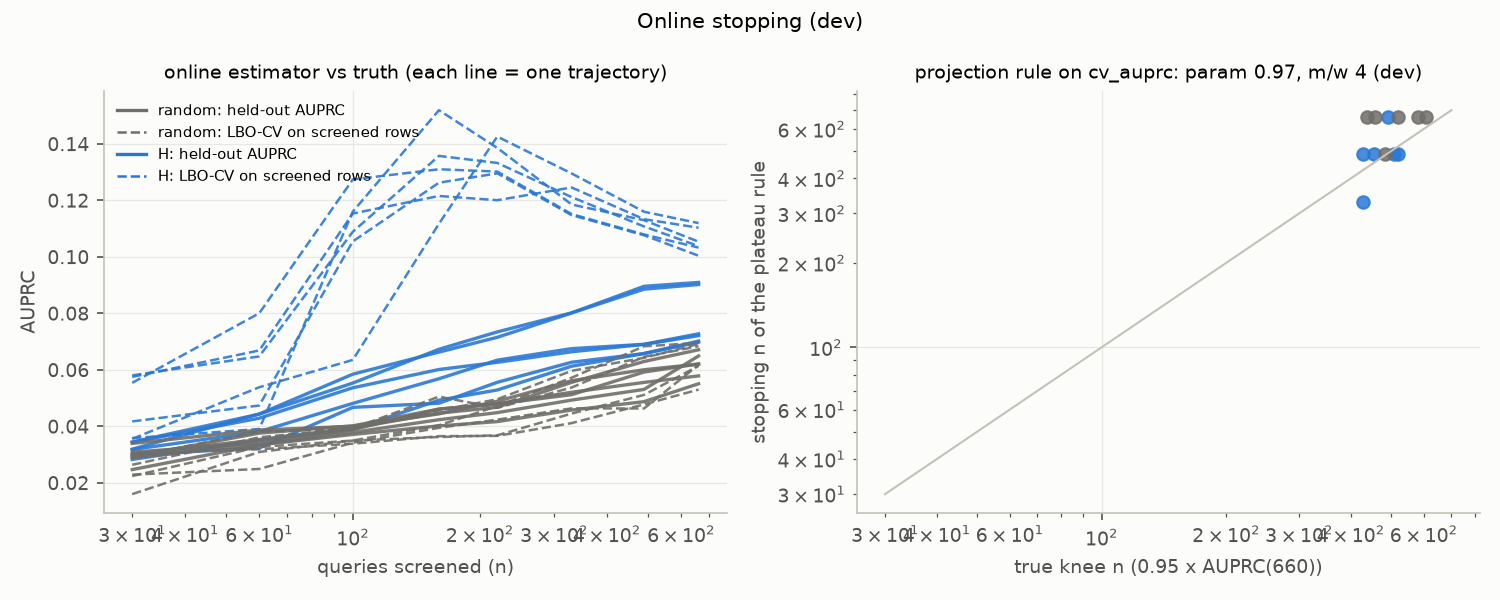
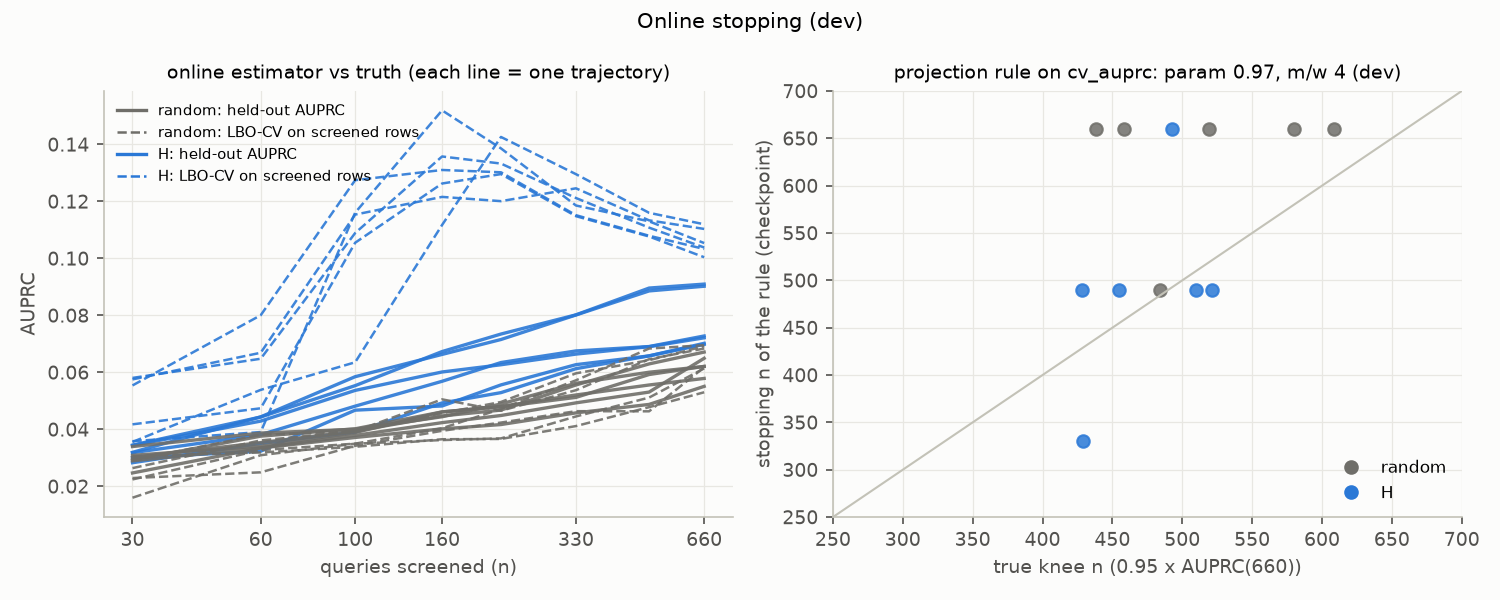
Q3 dev: static rank-rule evaluation (P* refits), full LBO thresholds, key findings; report robust to final-mode columns

diff --git a/analysis/q3/report.py b/analysis/q3/report.py
@@ -34,6 +34,8 @@ def i0(x):
 
 def table(df: pd.DataFrame, cols, heads=None, fmt=None) -> str:
     heads = heads or cols
+    keep = [k for k, c in enumerate(cols) if c in df.columns]          # tolerate columns a source does not have
+    cols, heads = [cols[k] for k in keep], [heads[k] for k in keep]
     fmt = fmt or {}
     out = ["| " + " | ".join(heads) + " |", "|" + "---|" * len(cols)]
     for _, r in df.iterrows():
@@ -165,9 +167,12 @@ def section_choice(O) -> list[str]:
               "rule, P* refit; recovered = (rule − random)/(strategy − random)):", "",
               table(g, ["rule", "n", "auprc_rule", "auprc_random", "auprc_H", "auprc_H_static", "auprc_rel_gain_rule",
                         "auprc_rel_gain_H", "auprc_recovered_vs_H", "auprc_recovered_vs_finalists",
-                        "auprc_recovered_H_static_vs_H", "R_seeds"],
+                        "auprc_recovered_H_static_vs_H", "n_splits", "n_fits", "offarray_share"],
                     ["rule", "n", "rule", "random", "H", "H-static", "rule gain", "H gain", "recovered vs H",
-                     "recovered vs finalists", "H-static recovered", "seeds"], {"n": i0}), ""]
+                     "recovered vs finalists", "H-static recovered", "splits", "fits", "off-array share"],
+                    {"n": i0, "n_splits": i0, "n_fits": i0}), "",
+              "n = 660 is partial: those fits were stopped by the 3 GB RSS watchdog (P* at n = 660 on the full dev "
+              "target set peaks at ≈3.0–3.2 GB), so only the splits listed were completed.", ""]
     L += ["![profile](fig_choice_profile.png)", ""]
     return L
 
@@ -249,7 +254,7 @@ def section_stop(O) -> list[str]:
                f"n = {R_['n_max_planned']}")
         L += [f"**Frozen rule** (`analysis/q3/stopping_rule.yaml`, frozen {r['frozen_at']}): {R_['family']} family; "
               f"{how}; otherwise stop at 660 (flagged).", ""]
-    if (O / "stop_rule_applied.csv").exists():
+    if (O / "stop_rule_applied.csv").exists() and (O / "stop_rule_applied.csv").stat().st_size > 5:
         a = pd.read_csv(O / "stop_rule_applied.csv")
         L += ["Frozen rule applied:", "", table(a, list(a.columns)), ""]
     L += ["![stopping](fig_stopping.png)", ""]
@@ -311,6 +316,60 @@ NOTES = """## Ambiguities in DESIGN §7.2–7.4 and how they were resolved (none
 """
 
 
+def key_findings(O) -> list[str]:
+    """Headline numbers, read from the output files (no hardcoded values)."""
+    L = ["## Key findings", ""]
+    try:
+        t = pd.read_csv(O / "hap1_translation.csv")
+        x = t[(t.stratum == "OA") & t.N_yeast_label.str.contains("primary") & (t.N_HAP1_label == "mid")]
+        m = x[x.b_label == "measured"].set_index("target")
+        b0 = x[x.b_label == "b=0 (count)"].set_index("target")
+        c = pd.read_csv(O / "hap1_costs.csv")
+        c = c[(c.stratum == "OA") & (c.N_HAP1 == 8500) & (c.b_label == "measured")].set_index(["target", "arm"])
+        L.append(f"- **Random screening, HAP1 lines** (N_HAP1 8,500, measured b, on-array stratum): n_80 ≈ "
+                 f"{i0(m.loc['n80', 'n_HAP1'])} [{i0(m.loc['n80', 'lo'])}, {i0(m.loc['n80', 'hi'])}], n_90 ≈ "
+                 f"{i0(m.loc['n90', 'n_HAP1'])} [{i0(m.loc['n90', 'lo'])}, {i0(m.loc['n90', 'hi'])}] lines "
+                 f"(count-scaling bound b = 0: {i0(b0.loc['n80', 'n_HAP1'])} / {i0(b0.loc['n90', 'n_HAP1'])}).")
+        for arm in ("H", "H__b110"):
+            if ("n80", arm) in c.index:
+                L.append(f"- **{arm}** reaches the same AUPRC with {i0(c.loc[('n80', arm), 'lines'])} (n_80) / "
+                         f"{i0(c.loc[('n90', arm), 'lines'])} (n_90) lines in {i0(c.loc[('n80', arm), 'rounds'])} / "
+                         f"{i0(c.loc[('n90', arm), 'rounds'])} rounds (saving "
+                         f"{100 * c.loc[('n80', arm), 'saving_vs_random']:.0f}% / "
+                         f"{100 * c.loc[('n90', arm), 'saving_vs_random']:.0f}%).")
+        bb = pd.read_csv(O / "hap1_billmann222.csv")
+        bb = bb[(bb.stratum == "OA") & (bb.N_HAP1 == 8500) & (bb.b_label == "measured")].set_index("arm")
+        L.append(f"- **Billmann's 222 lines** ≈ {bb.loc['R0', 'n_yeast_equiv']:.0f} yeast queries at measured b: random "
+                 f"selection gives {100 * bb.loc['R0', 'auprc_frac_of_max']:.0f}% of the pool-max AUPRC, H "
+                 f"{100 * bb.loc['H', 'auprc_frac_of_max']:.0f}%.")
+    except (FileNotFoundError, KeyError, IndexError):
+        pass
+    try:
+        g = pd.read_csv(O / "choice_rule_gain.csv").set_index(["rule", "n"])
+        k = g.loc[("forward_k3", 160)]
+        L.append(f"- **Static 3-feature rank rule** (low single-mutant fitness, low expression variability, high "
+                 f"conservation) recovers {100 * k.auprc_recovered_vs_H:.0f}% of H's AUPRC gain at n = 160 "
+                 f"(H-static {100 * k.auprc_recovered_H_static_vs_H:.0f}%).")
+    except (FileNotFoundError, KeyError):
+        pass
+    try:
+        e = pd.read_csv(O / "stop_estimator.csv")
+        r0 = e[(e.arm == "R0")]
+        h = e[(e.arm == "H")]
+        L.append(f"- **Online estimator**: LBO-CV AUPRC on screened rows has relative bias "
+                 f"{100 * r0.rel_bias.min():+.0f}% to {100 * r0.rel_bias.max():+.0f}% under random selection but "
+                 f"{100 * h.rel_bias.min():+.0f}% to {100 * h.rel_bias.max():+.0f}% under H (SL-rich screened rows).")
+        f_ = pd.read_csv(O / "stop_fixed_n_baseline.csv").sort_values("mae_log2").iloc[0]
+        s_ = json.loads((O / "stop_summary.json").read_text())["best"]
+        kn = pd.read_csv(O / "stop_knees.csv").knee / 660
+        L.append(f"- **Stopping**: true knees fall at {kn.min():.2f}–{kn.max():.2f} × the 660 cap; the best online rule "
+                 f"has mean "
+                 f"|log2 error| {s_['mae_log2']:.2f} vs {f_.mae_log2:.2f} for always stopping at n = {f_.n_fixed:.0f}.")
+    except (FileNotFoundError, KeyError, TypeError):
+        pass
+    return L + [""]
+
+
 def compose(source: str, out=None) -> str:
     O = C.out_dir(source, out)
     head = [f"# Q3 analyses — {source.upper()} {'(DEV DATA ONLY)' if source == 'dev' else ''}", "",
@@ -323,7 +382,7 @@ def compose(source: str, out=None) -> str:
             "the dev bundle, one P* job at a time, ~25 min per trajectory); (3) `bash analysis/q3/run_all.sh final` "
             "again, which applies the FROZEN stopping rule (`analysis/q3/stopping_rule.yaml`, never re-tuned) and the "
             "CV thresholds. Outputs go to results/q3_final/.", ""]
-    body = section_hap1(O) + section_frontier(O) + section_choice(O) + section_pred(O) + section_stop(O)
+    body = key_findings(O) + section_hap1(O) + section_frontier(O) + section_choice(O) + section_pred(O) + section_stop(O)
     txt = "\n".join(head + body) + "\n" + NOTES
     (O / "summary.md").write_text(txt)
     return txt

diff --git a/analysis/q3/fit.py b/analysis/q3/fit.py
@@ -25,7 +25,7 @@ def pstar_spec():
     return pz["method"], dict(pz["params"] or {})
 
 
-def fit_score(b, split: str, screened, model_seed: int, n_threads: int = 2) -> dict:
+def fit_score(b, split: str, screened, model_seed: int, n_threads: int = 2, chunk_targets: int | None = None) -> dict:
     from hsl import eval as E, upstream as U, views
     from analysis.q3 import cache
     sp = views.get_split(split)
@@ -43,7 +43,7 @@ def fit_score(b, split: str, screened, model_seed: int, n_threads: int = 2) -> d
     view = U.construct_view(b, S, sp.targets)
     Sm, _ = U.run_method(view, method, model_seed=int(model_seed), split_seed=0, n_threads=n_threads,
                          n_folds=int(min(int(pr["n_folds"]), max(len(S), 2))),
-                         chunk_targets=int(pr["chunk_targets"]), params=params)
+                         chunk_targets=int(chunk_targets or pr["chunk_targets"]), params=params)
     s = np.asarray(Sm, dtype=np.float32)[es["rows"], es["cols"]]
     y = es["y"]
     out = {"split": split, "n": int(len(S)), "model_seed": int(model_seed), "fit_s": time.perf_counter() - t0,
@@ -53,7 +53,7 @@ def fit_score(b, split: str, screened, model_seed: int, n_threads: int = 2) -> d
     return out, s
 
 
-def check() -> None:
+def check(chunk_targets=None) -> None:
     import pandas as pd
     b = C.dev_bundle()
     sels = C.selections("dev", arms=[C.RANDOM])
@@ -61,7 +61,7 @@ def check() -> None:
     for sp, r, n in (("dev1", 0, 160),):
         sel = sels[(C.RANDOM, sp, r)]
         x = d[(d.predictor == C.PSTAR) & (d.split == sp) & (d.perm == r) & (d.n == n)].iloc[0]
-        out, _ = fit_score(b, sp, sel["selected"][:n], sel["model_seed"])
+        out, _ = fit_score(b, sp, sel["selected"][:n], sel["model_seed"], chunk_targets=chunk_targets)
         print(f"{sp} r{r} n{n}: ours {out['auprc']:.10f} stored {x.auprc:.10f} diff {out['auprc'] - x.auprc:.2e} "
               f"fit {out['fit_s']:.0f} s")
         if abs(out["auprc"] - x.auprc) > 1e-6:
@@ -69,5 +69,5 @@ def check() -> None:
 
 
 if __name__ == "__main__":
-    if sys.argv[1:] == ["check"]:
-        check()
+    if sys.argv[1:2] == ["check"]:
+        check(int(sys.argv[2]) if len(sys.argv) > 2 else None)

diff --git a/analysis/q3/choice.py b/analysis/q3/choice.py
@@ -343,13 +343,13 @@ def report(source: str, out=None) -> pd.DataFrame:
     out_rows = []
     for (rule, n), g in ev.groupby(["rule", "n"]):
         rec = {"rule": rule, "n": n}
-        for col in ("auprc", "auprc_VV"):
+        for col, rcol in (("auprc", "auprc"), ("auprc_VV", "auprc_OA")):
             per = []
             for sp, gs in g.groupby("split"):
-                rr = rows[(rows.arm == "R0") & (rows.split == sp) & (rows.n == n)][col].mean()
-                hh = rows[(rows.arm == "H") & (rows.split == sp) & (rows.n == n)][col].mean()
-                ff = rows[(rows.arm.isin(C.FINALISTS)) & (rows.split == sp) & (rows.n == n)][col].mean()
-                hs = rows[(rows.arm == "H-static") & (rows.split == sp) & (rows.n == n)][col].mean()
+                rr = rows[(rows.arm == "R0") & (rows.split == sp) & (rows.n == n)][rcol].mean()
+                hh = rows[(rows.arm == "H") & (rows.split == sp) & (rows.n == n)][rcol].mean()
+                ff = rows[(rows.arm.isin(C.FINALISTS)) & (rows.split == sp) & (rows.n == n)][rcol].mean()
+                hs = rows[(rows.arm == "H-static") & (rows.split == sp) & (rows.n == n)][rcol].mean()
                 per.append({"rule": gs[col].mean(), "random": rr, "H": hh, "fin": ff, "Hstatic": hs})
             D = pd.DataFrame(per)
             rec.update({f"{col}_rule": D.rule.mean(), f"{col}_random": D.random.mean(), f"{col}_H": D.H.mean(),
@@ -360,6 +360,9 @@ def report(source: str, out=None) -> pd.DataFrame:
                         f"{col}_recovered_vs_finalists": ((D.rule - D.random) / (D.fin - D.random)).mean(),
                         f"{col}_recovered_H_static_vs_H": ((D.Hstatic - D.random) / (D.H - D.random)).mean()})
         rec["R_seeds"] = int(g.seed.nunique())
+        rec["n_splits"] = int(g.split.nunique())
+        rec["n_fits"] = int(len(g))
+        rec["offarray_share"] = float(g.offarray_share.mean())
         rec["fit_s_mean"] = float(g.fit_s.mean())
         out_rows.append(rec)
     R = pd.DataFrame(out_rows)

diff --git a/analysis/q3/stopping.py b/analysis/q3/stopping.py
@@ -307,6 +307,9 @@ def fig(M, T, best, path, source):
         ax.plot([], [], color=col, lw=1.6, label=f"{lab}: held-out AUPRC")
         ax.plot([], [], color=col, lw=1.2, ls="--", label=f"{lab}: LBO-CV on screened rows")
     ax.set_xscale("log")
+    ax.set_xticks([30, 60, 100, 160, 330, 660])
+    ax.set_xticklabels(["30", "60", "100", "160", "330", "660"])
+    ax.minorticks_off()
     ax.set_xlabel("queries screened (n)")
     ax.set_ylabel("AUPRC")
     ax.legend(frameon=False, fontsize=7)
@@ -319,11 +322,14 @@ def fig(M, T, best, path, source):
             col, _ = style.get(t["arm"], ("#eb6834", t["arm"]))
             ns_, _ = stop_n(t["ns"], t[best["statistic"]], best["family"], best["delta"], int(best["m"]))
             ax.plot(t["knee"], ns_, "o", color=col, ms=6, alpha=0.85)
-        ax.plot([30, 700], [30, 700], color="#c3c2b7", lw=1)
-        ax.set_xscale("log")
-        ax.set_yscale("log")
+        ax.plot([250, 700], [250, 700], color="#c3c2b7", lw=1)
+        ax.set_xlim(250, 700)
+        ax.set_ylim(250, 700)
+        for a, (col, lab) in style.items():
+            ax.plot([], [], "o", color=col, label=lab)
+        ax.legend(frameon=False, fontsize=8, loc="lower right")
         ax.set_xlabel("true knee n (0.95 x AUPRC(660))")
-        ax.set_ylabel("stopping n of the plateau rule")
+        ax.set_ylabel("stopping n of the rule (checkpoint)")
         ax.set_title(f"{best['family']} rule on {best['statistic']}: param {best['delta']}, m/w {int(best['m'])} (dev)",
                      fontsize=9)
     f.suptitle(f"Online stopping ({source})", fontsize=10)

diff --git a/analysis/q3/common.py b/analysis/q3/common.py
@@ -126,7 +126,8 @@ def _final_rows(source: str) -> pd.DataFrame:
     split = lab.get("split", "final" if source == "final" else "dev1")
     out = pd.DataFrame({"arm": r["cid"], "split": split, "traj": r["traj"], "n": r["n"], "auprc": r["auprc_inline"],
                         "sl_detected": r.get("sl_detected"), "sl_detected_frac": r.get("sl_detected_frac"),
-                        "pred_file": r["pred_file"], "model_seed": r["model_seed"]})
+                        "pred_file": r["pred_file"], "model_seed": r["model_seed"],
+                        "prevalence": r["n_pos"] / r["n_cells"]})
     # strata are not in runs.csv: unit-weight AP on the stratum recomputed from the saved predictions (cached)
     return _final_strata(source, out)
 

diff --git a/results/q3_dev/summary.md b/results/q3_dev/summary.md
@@ -4,6 +4,16 @@ DESIGN v3.1 §7.2–7.4. Code: `analysis/q3/` (one command per analysis, `--sour
 
 **On the final outputs** (only after `scripts/score_final.py` has finished): (1) `bash analysis/q3/run_all.sh final` (hap1, frontier, choice profile, predcontrib; minutes); (2) `SOURCE=final SPLITS=final TRAJS="0 1" ARMS="R0 H" bash analysis/q3/run_lbo.sh` (LBO-CV refits on the dev bundle, one P* job at a time, ~25 min per trajectory); (3) `bash analysis/q3/run_all.sh final` again, which applies the FROZEN stopping rule (`analysis/q3/stopping_rule.yaml`, never re-tuned) and the CV thresholds. Outputs go to results/q3_final/.
 
+## Key findings
+
+- **Random screening, HAP1 lines** (N_HAP1 8,500, measured b, on-array stratum): n_80 ≈ 2,208 [1,758, 2,871], n_90 ≈ 3,539 [2,976, 4,238] lines (count-scaling bound b = 0: 805 / 1,288).
+- **H** reaches the same AUPRC with 639 (n_80) / 1,233 (n_90) lines in 24 / 45 rounds (saving 71% / 65%).
+- **H__b110** reaches the same AUPRC with 805 (n_80) / 1,339 (n_90) lines in 3 / 5 rounds (saving 64% / 62%).
+- **Billmann's 222 lines** ≈ 81 yeast queries at measured b: random selection gives 46% of the pool-max AUPRC, H 56%.
+- **Static 3-feature rank rule** (low single-mutant fitness, low expression variability, high conservation) recovers 72% of H's AUPRC gain at n = 160 (H-static 46%).
+- **Online estimator**: LBO-CV AUPRC on screened rows has relative bias -17% to +5% under random selection but +38% to +128% under H (SL-rich screened rows).
+- **Stopping**: true knees fall at 0.65–0.92 × the 660 cap; the best online rule has mean |log2 error| 0.25 vs 0.13 for always stopping at n = 490.
+
 ## 1. HAP1 translation (§7.3–7.4)
 
 Yeast P* random n_80 / n_90 by AUPRC stratum (pool maximum = 100%): OA 805 / 1,288; all 810 / 1,279; onrows 817 / 1,279 (candidate pool ≈ 2,101). DESIGN §7.4 uses the on-array stratum (OA = E_VV on dev, E_TT at the final) for the HAP1 translation: OA is the primary below; 'all' (E_fixed, the Q1 endpoint with its frozen joint-bootstrap CI) and on-array rows are sensitivities. OA/onrows CIs carry over the 'all' stratum's relative CI width (approximation). Slope b (universe subsampling, re-bootstrapped): n_80 1.06 [0.85, 1.30], n_90 1.06 [0.89, 1.24].
@@ -195,6 +205,19 @@ Leave-split-out rank rules (fitted on the finalists' pick frequencies in the oth
 
 Rules fitted on all three dev splits (standardised features; the one to carry to HAP1): k=1: smf -0.81; k=2: smf -0.80, expr_sd -0.41; k=3: smf -0.79, expr_sd -0.40, conservation +0.32
 
+**Static rank rule vs the adaptive strategies** (randomised top-20 static picks from the leave-split-out rule, P* refit; recovered = (rule − random)/(strategy − random)):
+
+| rule | n | rule | random | H | H-static | rule gain | H gain | recovered vs H | recovered vs finalists | H-static recovered | splits | fits | off-array share |
+|---|---|---|---|---|---|---|---|---|---|---|---|---|---|
+| forward_k1 | 160 | 0.050 | 0.043 | 0.058 | 0.049 | 0.159 | 0.327 | 0.434 | 0.471 | 0.460 | 3 | 9 | 0.192 |
+| forward_k1 | 330 | 0.064 | 0.051 | 0.069 | 0.060 | 0.262 | 0.365 | 0.732 | 0.791 | 0.519 | 3 | 9 | 0.194 |
+| forward_k1 | 660 | 0.075 | 0.060 | 0.080 | 0.070 | 0.241 | 0.332 | 0.730 | 0.805 | 0.488 | 2 | 4 | 0.195 |
+| forward_k3 | 160 | 0.054 | 0.043 | 0.058 | 0.049 | 0.246 | 0.327 | 0.725 | 0.779 | 0.460 | 3 | 9 | 0.192 |
+| forward_k3 | 330 | 0.066 | 0.051 | 0.069 | 0.060 | 0.289 | 0.365 | 0.790 | 0.854 | 0.519 | 3 | 9 | 0.192 |
+| forward_k3 | 660 | 0.067 | 0.055 | 0.070 | 0.061 | 0.217 | 0.269 | 0.808 | 0.912 | 0.398 | 1 | 2 | 0.193 |
+
+n = 660 is partial: those fits were stopped by the 3 GB RSS watchdog (P* at n = 660 on the full dev target set peaks at ≈3.0–3.2 GB), so only the splits listed were completed.
+
 ![profile](fig_choice_profile.png)
 
 ## 4. What prediction can contribute (§7.4)
@@ -257,11 +280,36 @@ Thresholds chosen by leave-batch-out CV on screened rows, applied to the targets
 
 | arm | n | set by | level | CV precision | CV recall | target precision | target recall | on-array precision | on-array recall | calls / gene |
 |---|---|---|---|---|---|---|---|---|---|---|
-| R0 | 160 | precision | 0.100 | 0.100 | 0.049 | 0.102 | 0.056 | 0.102 | 0.047 | 7.027 |
-| R0 | 160 | precision | 0.200 | 0.200 | 0.005 | 0.233 | 0.009 | 0.298 | 0.010 | 0.473 |
-| R0 | 160 | recall | 0.050 | 0.097 | 0.050 | 0.101 | 0.058 | 0.101 | 0.050 | 7.422 |
-| R0 | 160 | recall | 0.100 | 0.085 | 0.100 | 0.081 | 0.107 | 0.086 | 0.102 | 17.067 |
-| R0 | 160 | recall | 0.200 | 0.065 | 0.200 | 0.065 | 0.213 | 0.065 | 0.213 | 42.291 |
+| H | 160 | precision | 0.100 | 0.100 | 0.364 | 0.071 | 0.195 | 0.072 | 0.226 | 37.032 |
+| H | 160 | precision | 0.200 | 0.200 | 0.178 | 0.128 | 0.076 | 0.132 | 0.091 | 7.998 |
+| H | 160 | recall | 0.050 | 0.505 | 0.050 | 0.327 | 0.021 | 0.336 | 0.028 | 0.859 |
+| H | 160 | recall | 0.100 | 0.329 | 0.100 | 0.198 | 0.039 | 0.205 | 0.051 | 2.678 |
+| H | 160 | recall | 0.200 | 0.180 | 0.200 | 0.115 | 0.089 | 0.120 | 0.106 | 10.506 |
+| H | 330 | precision | 0.100 | 0.100 | 0.328 | 0.078 | 0.215 | 0.077 | 0.247 | 37.231 |
+| H | 330 | precision | 0.200 | 0.200 | 0.163 | 0.147 | 0.096 | 0.152 | 0.117 | 8.762 |
+| H | 330 | recall | 0.050 | 0.488 | 0.050 | 0.352 | 0.031 | 0.359 | 0.041 | 1.188 |
+| H | 330 | recall | 0.100 | 0.313 | 0.100 | 0.228 | 0.059 | 0.227 | 0.073 | 3.464 |
+| H | 330 | recall | 0.200 | 0.165 | 0.200 | 0.124 | 0.121 | 0.127 | 0.143 | 13.192 |
+| H | 660 | precision | 0.100 | 0.100 | 0.283 | 0.083 | 0.234 | 0.083 | 0.267 | 37.871 |
+| H | 660 | precision | 0.200 | 0.200 | 0.143 | 0.161 | 0.106 | 0.165 | 0.128 | 8.874 |
+| H | 660 | recall | 0.050 | 0.457 | 0.050 | 0.342 | 0.039 | 0.334 | 0.049 | 1.530 |
+| H | 660 | recall | 0.100 | 0.278 | 0.100 | 0.217 | 0.075 | 0.222 | 0.093 | 4.621 |
+| H | 660 | recall | 0.200 | 0.143 | 0.200 | 0.117 | 0.154 | 0.120 | 0.179 | 17.753 |
+| R0 | 160 | precision | 0.100 | 0.100 | 0.033 | 0.123 | 0.036 | 0.121 | 0.036 | 4.748 |
+| R0 | 160 | precision | 0.200 | 0.200 | 0.005 | 0.182 | 0.006 | 0.199 | 0.008 | 0.504 |
+| R0 | 160 | recall | 0.050 | 0.089 | 0.050 | 0.094 | 0.058 | 0.099 | 0.051 | 8.359 |
+| R0 | 160 | recall | 0.100 | 0.076 | 0.100 | 0.080 | 0.112 | 0.084 | 0.107 | 18.910 |
+| R0 | 160 | recall | 0.200 | 0.060 | 0.200 | 0.064 | 0.213 | 0.063 | 0.224 | 44.732 |
+| R0 | 330 | precision | 0.100 | 0.100 | 0.080 | 0.105 | 0.085 | 0.114 | 0.091 | 11.433 |
+| R0 | 330 | precision | 0.200 | 0.200 | 0.018 | 0.198 | 0.020 | 0.249 | 0.025 | 1.187 |
+| R0 | 330 | recall | 0.050 | 0.122 | 0.050 | 0.123 | 0.057 | 0.133 | 0.060 | 6.315 |
+| R0 | 330 | recall | 0.100 | 0.094 | 0.100 | 0.095 | 0.107 | 0.099 | 0.110 | 15.222 |
+| R0 | 330 | recall | 0.200 | 0.070 | 0.200 | 0.073 | 0.203 | 0.073 | 0.219 | 37.701 |
+| R0 | 660 | precision | 0.100 | 0.100 | 0.143 | 0.100 | 0.139 | 0.103 | 0.149 | 19.025 |
+| R0 | 660 | precision | 0.200 | 0.200 | 0.044 | 0.194 | 0.043 | 0.207 | 0.051 | 3.078 |
+| R0 | 660 | recall | 0.050 | 0.185 | 0.050 | 0.175 | 0.050 | 0.188 | 0.058 | 3.843 |
+| R0 | 660 | recall | 0.100 | 0.123 | 0.100 | 0.120 | 0.098 | 0.125 | 0.107 | 10.927 |
+| R0 | 660 | recall | 0.200 | 0.083 | 0.200 | 0.084 | 0.195 | 0.085 | 0.211 | 31.264 |
 
 ![PR](fig_pred_pr.png)
 
